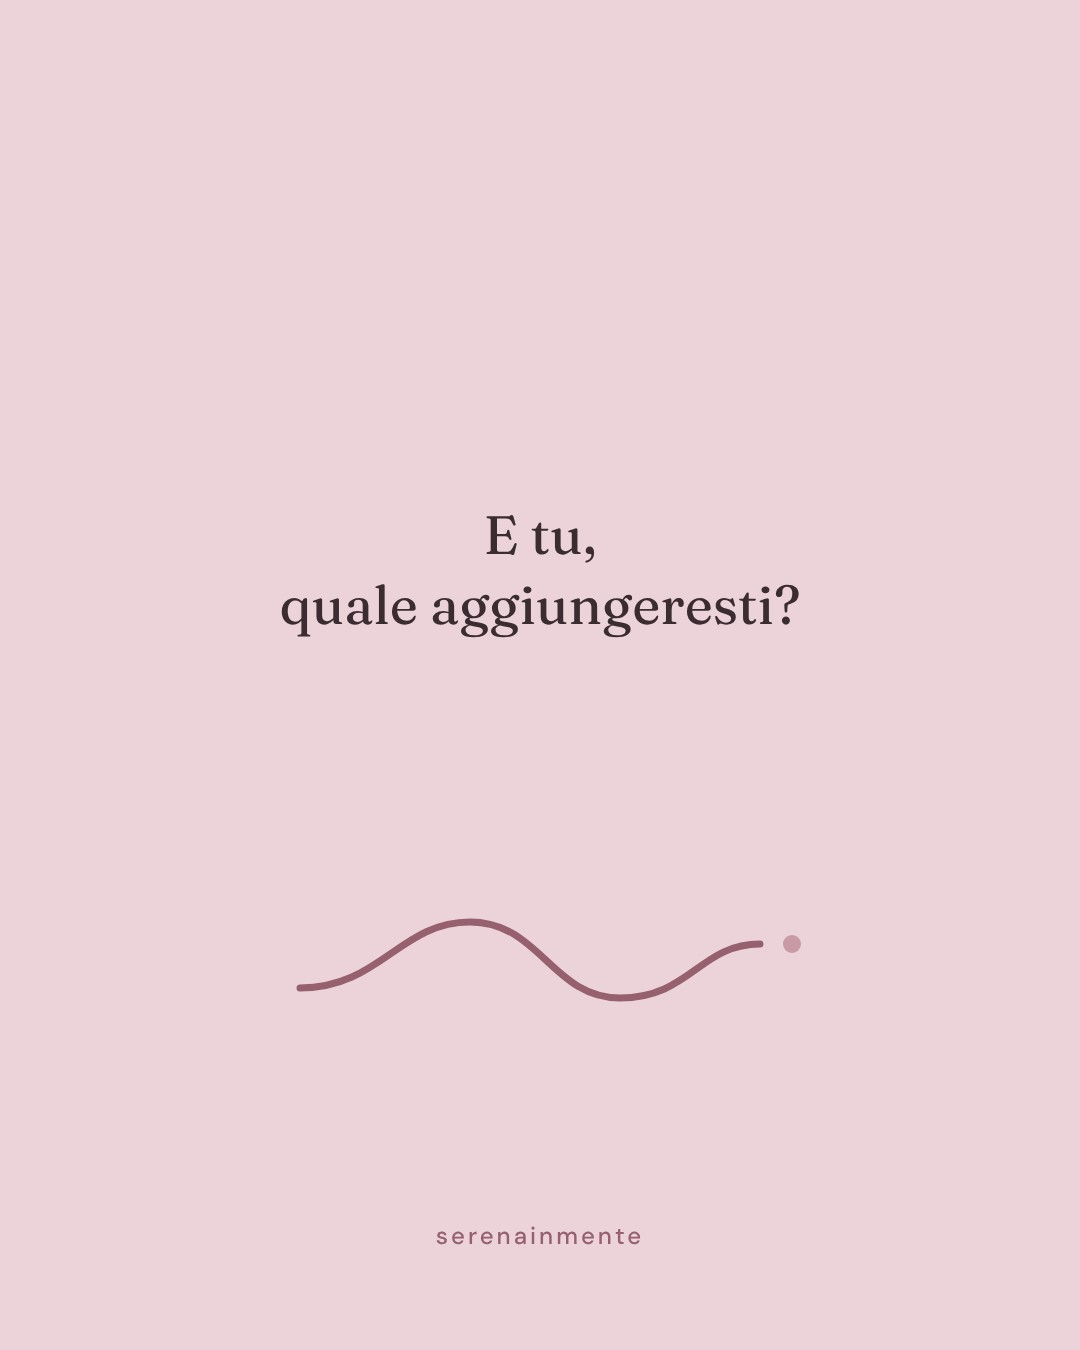
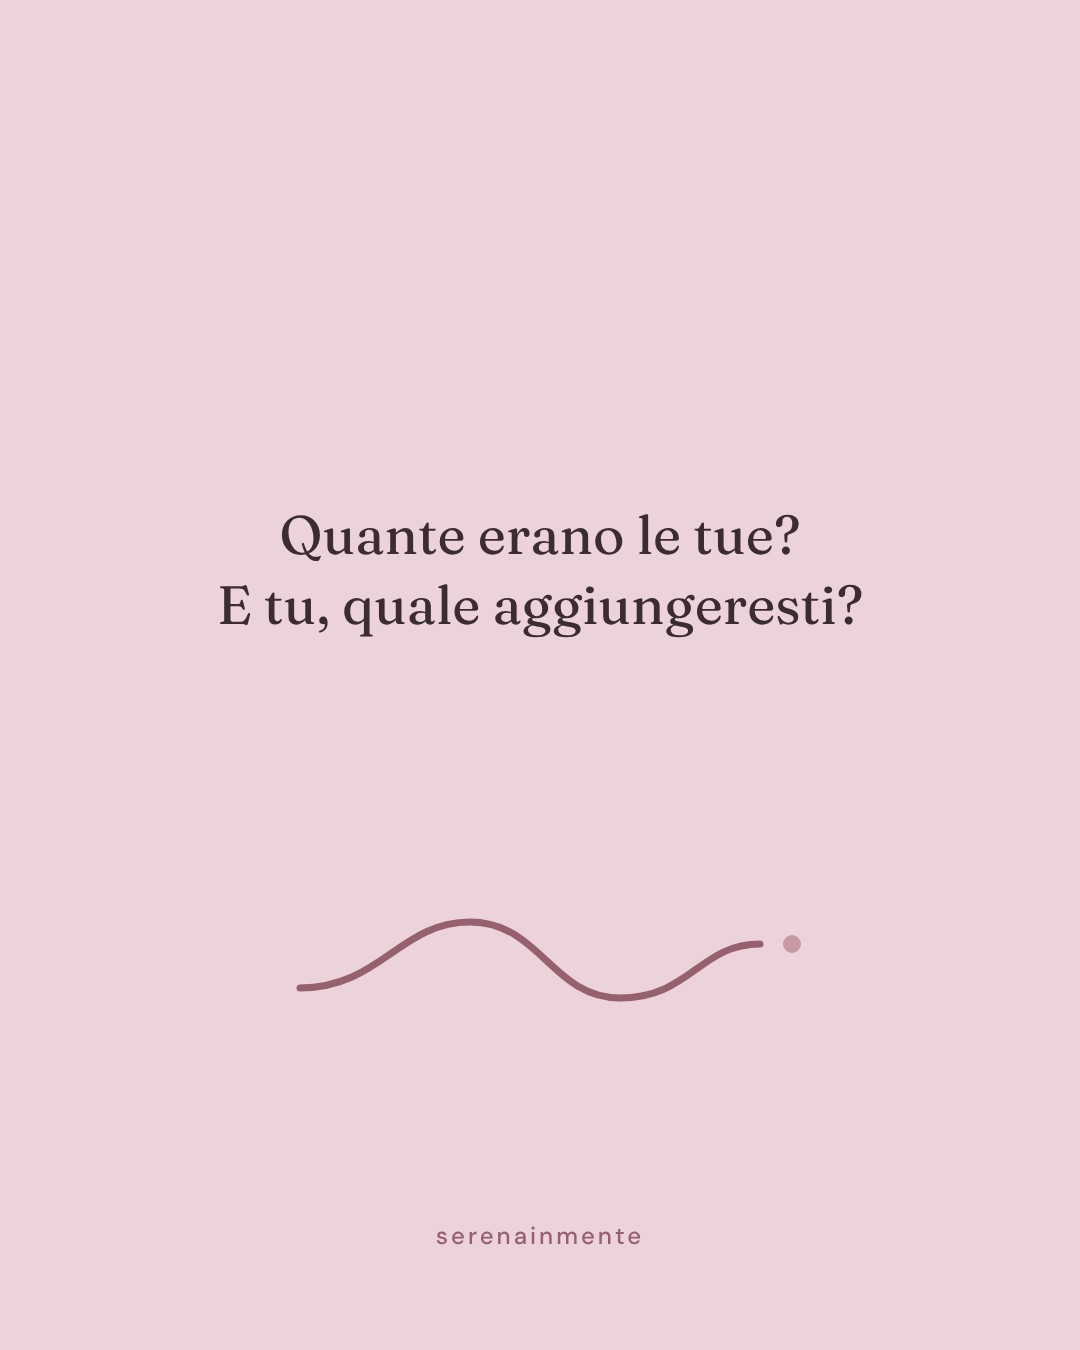
Copertine dei caroselli con frase d'impatto (25/11, 29/11, 30/11, 1/12) e contatore 1/6 sulle schede di «Le cose che nessuno conta»
Claude-Session: https://claude.ai/code/session_01PexKGrEoahLuMFXSH7a2SF

Changed region(s): [[0.1833, 0.3733, 0.7944, 0.4667]]

diff --git a/gen/grafiche/render.js b/gen/grafiche/render.js
@@ -42,6 +42,7 @@ const css = `
 .arrow{position:absolute;right:110px;top:1190px;font-family:Fraunces,serif;font-size:64px;color:#97606F}
 .story.c{height:1920px}.story .f{top:560px;height:640px}.story .t{top:1290px}.story .s{top:1640px}
 /* caroselli */
+.cnt{position:absolute;right:110px;top:110px;font-family:'DM Sans',sans-serif;font-weight:500;font-size:28px;letter-spacing:3px;color:#97606F}
 .tab{width:100%;border-collapse:separate;border-spacing:0;background:#fff;border-radius:18px;overflow:hidden;box-shadow:0 24px 50px -30px rgba(58,44,48,.45);font-family:'DM Sans',sans-serif}
 .tab th{background:#4A383D;color:#FBF6F4;font-weight:800;font-size:19px;letter-spacing:1px;text-transform:uppercase;text-align:left;padding:16px 14px}
 .tab td{font-size:24px;line-height:1.25;padding:16px 14px;border-top:1px solid #EFE6E8;color:#3A2C30;vertical-align:middle}
@@ -78,7 +79,7 @@ function corpo(it) {
   const tipo = it.tipo || 'frase';
   if (tipo === 'frase') {
     const lab = it.parola ? `<div class="lab">${esc(it.parola)}<small>il vocabolario di Serena · n. ${esc(it.numero)}</small></div>` : '';
-    return `${lab}<div class="f">${esc(it.frase)}</div>${filo}<div class="s">serenainmente</div>${it.freccia ? '<div class="arrow">→</div>' : ''}`;
+    return `${it.conta ? `<div class="cnt">${esc(it.conta)}</div>` : ''}${lab}<div class="f">${esc(it.frase)}</div>${filo}<div class="s">serenainmente</div>${it.freccia ? '<div class="arrow">→</div>' : ''}`;
   }
   const piede = `${filoMini}<div class="firma">serenainmente</div>`;
   if (tipo === 'copertina')
